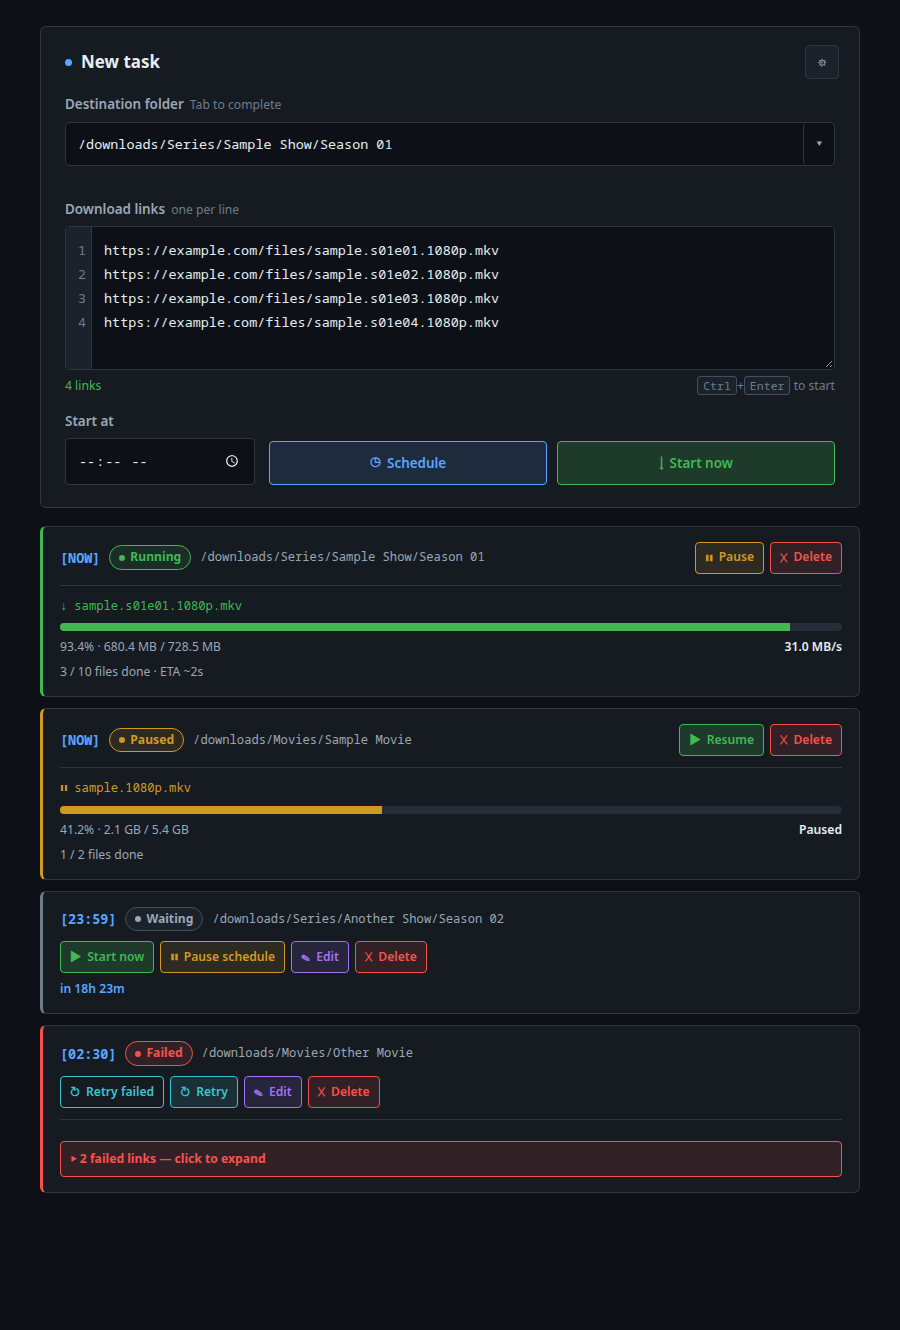
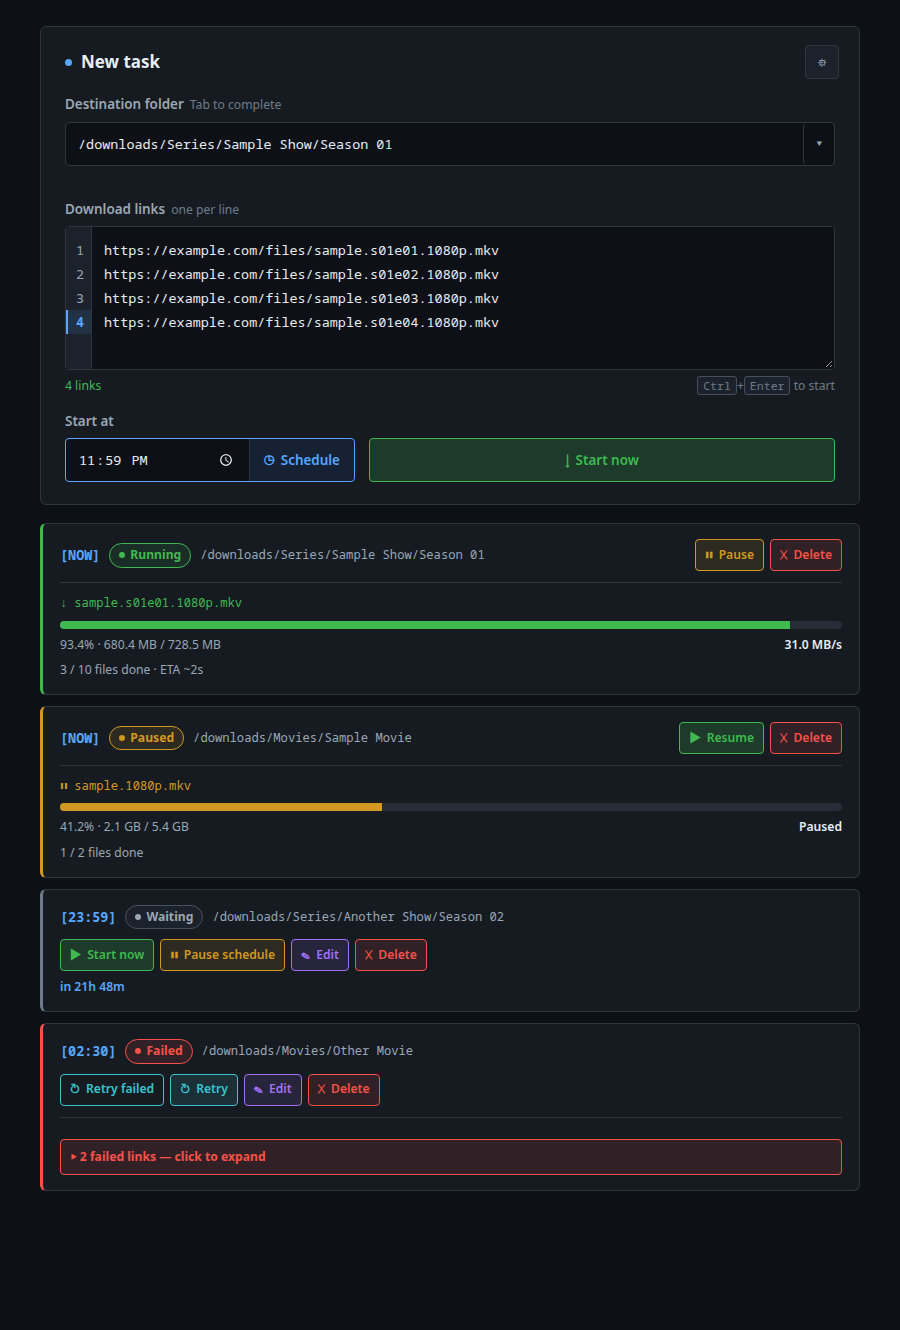
Redesign URL number rail and connect Start at with Schedule
- Rework the link editor gutter into a proper line-number rail: legible
  tabular numbers, active-line highlight, invalid-link markers, and
  efficient class-only updates with dynamic narrow width.
- Attach the Schedule button to the Start at field as one bordered control
  with a bright blue outline matching Start now's green, including a violet
  Save changes variant in edit mode; keep responsive stacking and alignment.
- Regenerate preview.png with generic sample data.

diff --git a/aria2-webui.py b/aria2-webui.py
@@ -800,19 +800,31 @@ HTML_TEMPLATE = r"""
         textarea { resize:vertical; min-height:124px; line-height:1.65; }
         input[type="time"] { font-family:var(--font-mono); }
 
-        /* Numbered link editor: gutter + roomy one-line-per-URL rows */
+        /* Numbered link editor: a real line-number rail beside one-line-per-URL rows */
         .editor {
             display:flex; border:1px solid var(--border);
             border-radius:var(--radius-sm); background:var(--bg); overflow:hidden;
         }
         .editor:focus-within { border-color:var(--accent); }
         .editor-gutter {
-            flex:0 0 26px; padding:11px 5px; background:var(--surface-2);
-            border-right:1px solid var(--border); color:var(--faint);
+            flex:0 0 26px; padding:11px 0; background:var(--surface-2);
+            border-right:1px solid var(--border); color:var(--muted);
             font-family:var(--font-mono); font-size:var(--sm);
-            line-height:24px; text-align:right; overflow:hidden; user-select:none;
+            font-variant-numeric:tabular-nums; line-height:24px;
+            overflow:hidden; user-select:none;
         }
-        .editor-gutter span { display:block; }
+        .editor-gutter .gutter-row {
+            position:relative; display:flex; align-items:center; justify-content:flex-start;
+            height:24px; padding:0 8px 0 8px; border-left:2px solid transparent;
+        }
+        .editor-gutter .mark {
+            position:absolute; left:2px; top:50%; transform:translateY(-50%);
+            width:4px; height:4px; border-radius:50%;
+        }
+        .editor-gutter .invalid .mark { background:var(--danger); }
+        .editor-gutter .invalid .num { color:var(--danger); }
+        .editor-gutter .active { background:var(--accent-tint); border-left-color:var(--accent); }
+        .editor-gutter .active .num { color:var(--accent); font-weight:700; }
         #urls {
             flex:1; min-width:0; border:0; border-radius:0; padding:11px 12px;
             background:var(--bg); line-height:24px;
@@ -886,12 +898,40 @@ HTML_TEMPLATE = r"""
         }
 
         .schedule-row {
-            display:grid; grid-template-columns:minmax(150px,190px) 1fr;
+            display:grid; grid-template-columns:minmax(230px,290px) 1fr;
             gap:14px; align-items:end; margin-top:4px;
         }
         .schedule-row .field { margin-bottom:0; }
+        .schedule-row .actions { justify-content:flex-start; }
+        .schedule-row .actions .btn { flex:1; }
+        .schedule-row #btns-edit .btn { flex:0 0 auto; min-width:150px; }
         .actions { display:flex; gap:10px; justify-content:flex-end; }
         .actions .btn { flex:1; min-height:44px; }
+
+        /* Start at + Schedule share one bright border, matching the Start now button */
+        .time-input-group {
+            display:flex; align-items:stretch; position:relative; height:44px;
+            border:1px solid var(--accent); border-radius:var(--radius-sm); background:var(--bg);
+        }
+        .time-input-group.editing { border-color:var(--violet); }
+        .time-input-group input[type="time"] {
+            flex:1; min-width:0; min-height:0; height:100%;
+            border:0; background:transparent;
+            padding:0 12px; font-family:var(--font-mono); font-size:var(--sm); line-height:1;
+        }
+        .time-input-group input[type="time"]:focus,
+        .time-input-group input[type="time"]:focus-visible,
+        .time-action:focus-visible { outline:none; }
+        .time-action {
+            flex:0 0 auto; height:100%; display:inline-flex; align-items:center; justify-content:center; gap:6px;
+            border:0; border-left:1px solid var(--border);
+            background:var(--accent-tint); color:var(--accent);
+            padding:0 14px; font-size:var(--sm); font-weight:600; white-space:nowrap;
+        }
+        .time-action .ico { font-size:1em; line-height:1; }
+        .time-action:hover { background:var(--accent); color:var(--accent-text); }
+        .time-action--save { background:var(--violet-tint); color:var(--violet); }
+        .time-action--save:hover { background:var(--violet); color:#fff; }
 
         .btn {
             display:inline-flex; align-items:center; justify-content:center; gap:6px;
@@ -902,8 +942,6 @@ HTML_TEMPLATE = r"""
         .btn .ico { font-size:1em; line-height:1; }
         .btn--primary { background:var(--accent); color:var(--accent-text); }
         .btn--primary:hover { background:var(--accent-hover); }
-        .btn--accent { background:var(--accent-tint); color:var(--accent); border-color:var(--accent); }
-        .btn--accent:hover { background:var(--accent); color:var(--accent-text); }
         .btn--start { background:var(--success-btn-tint); color:var(--success); border-color:var(--success); }
         .btn--start:hover { background:var(--success-btn); color:#fff; border-color:var(--success-btn); }
         .btn--edit { background:var(--violet-tint); color:var(--violet); border-color:var(--violet); }
@@ -1087,6 +1125,10 @@ HTML_TEMPLATE = r"""
             #settings-btn { top:15px; right:16px; }
             .card-head { padding-right:40px; }
             .schedule-row { grid-template-columns:1fr; gap:12px; }
+            .time-input-group { height:42px; }
+            .time-input-group input[type="time"], .time-action { height:42px; }
+            .schedule-row .actions .btn { flex:1; }
+            .schedule-row #btns-edit .btn { flex:1; }
             .actions .btn { min-height:42px; }
             .job-heading { width:100%; }
             .job-actions { width:100%; flex-wrap:wrap; margin-left:0; }
@@ -1138,15 +1180,17 @@ HTML_TEMPLATE = r"""
     <div class="schedule-row">
         <div class="field">
             <label for="start_time">Start at</label>
-            <input type="time" id="start_time">
+            <div class="time-input-group" id="time-group">
+                <input type="time" id="start_time">
+                <button type="button" class="time-action" id="btn-schedule" onclick="submitTask('schedule')"><span class="ico">◷</span> Schedule</button>
+                <button type="button" class="time-action time-action--save" id="btn-save" hidden onclick="saveEdit()"><span class="ico">✓</span> Save changes</button>
+            </div>
         </div>
         <div class="actions" id="btns-normal">
-            <button type="button" class="btn btn--accent" onclick="submitTask('schedule')"><span class="ico">◷</span> Schedule</button>
             <button type="button" class="btn btn--start" onclick="submitTask('now')"><span class="ico">↓</span> Start now</button>
         </div>
         <div class="actions" id="btns-edit" hidden>
             <button type="button" class="btn btn--ghost" onclick="cancelEdit()">Cancel</button>
-            <button type="button" class="btn btn--primary" onclick="saveEdit()"><span class="ico">✓</span> Save changes</button>
         </div>
     </div>
 </section>
@@ -1245,6 +1289,9 @@ HTML_TEMPLATE = r"""
     const formTitle     = document.getElementById('form-title');
     const btnsNormal    = document.getElementById('btns-normal');
     const btnsEdit      = document.getElementById('btns-edit');
+    const timeGroup     = document.getElementById('time-group');
+    const btnSchedule   = document.getElementById('btn-schedule');
+    const btnSaveLinked = document.getElementById('btn-save');
     const urlsTextarea  = document.getElementById('urls');
     const urlGutter     = document.getElementById('url-gutter');
     const urlCountEl    = document.getElementById('url-count');
@@ -1455,17 +1502,40 @@ HTML_TEMPLATE = r"""
         urlCountEl.innerHTML = html;
     }
 
+    let gutterLineCount = 0;
+
+    function updateActiveLine() {
+        const value = urlsTextarea.value;
+        const line = value.slice(0, urlsTextarea.selectionStart).split('\n').length;
+        const rows = urlGutter.children;
+        for (let i = 0; i < rows.length; i++)
+            rows[i].classList.toggle('active', value !== '' && i + 1 === line);
+    }
+
     function updateGutter() {
-        const count = Math.max(1, urlsTextarea.value.split('\n').length);
-        let html = '';
-        for (let i = 1; i <= count; i++) html += '<span>' + i + '</span>';
-        urlGutter.innerHTML = html;
-        urlGutter.style.flexBasis = Math.max(26, String(count).length * 9 + 10) + 'px';
+        const lines = urlsTextarea.value.split('\n');
+        const count = Math.max(1, lines.length);
+        if (count !== gutterLineCount) {
+            let html = '';
+            for (let i = 1; i <= count; i++)
+                html += '<span class="gutter-row"><span class="mark"></span><span class="num">' + i + '</span></span>';
+            urlGutter.innerHTML = html;
+            urlGutter.style.flexBasis = Math.max(26, String(count).length * 8 + 18) + 'px';
+            gutterLineCount = count;
+        }
+        const rows = urlGutter.children;
+        for (let i = 0; i < rows.length; i++) {
+            const raw = (lines[i] || '').trim();
+            rows[i].classList.toggle('invalid', raw !== '' && !isValidUrl(raw));
+        }
+        updateActiveLine();
         urlGutter.scrollTop = urlsTextarea.scrollTop;
     }
 
     urlsTextarea.addEventListener('input', () => { updateGutter(); updateUrlCount(); });
     urlsTextarea.addEventListener('scroll', () => { urlGutter.scrollTop = urlsTextarea.scrollTop; });
+    ['click', 'keyup', 'select', 'focus'].forEach(evt =>
+        urlsTextarea.addEventListener(evt, updateActiveLine));
     urlsTextarea.addEventListener('paste', () => setTimeout(() => {
         // Browsers scroll long lines to reveal the caret after a paste —
         // snap back so the start of the links stays visible next to the
@@ -1493,6 +1563,9 @@ HTML_TEMPLATE = r"""
         formTitle.textContent = 'Editing task';
         btnsNormal.hidden = true;
         btnsEdit.hidden = false;
+        btnSchedule.hidden = true;
+        btnSaveLinked.hidden = false;
+        timeGroup.classList.add('editing');
         window.scrollTo({top: 0, behavior: 'smooth'});
         checkPath(job.folder);
         updateGutter();
@@ -1507,6 +1580,9 @@ HTML_TEMPLATE = r"""
         formTitle.textContent = 'New task';
         btnsNormal.hidden = false;
         btnsEdit.hidden = true;
+        btnSchedule.hidden = false;
+        btnSaveLinked.hidden = true;
+        timeGroup.classList.remove('editing');
         refreshJobs();
     }
 
@@ -1516,6 +1592,7 @@ HTML_TEMPLATE = r"""
         document.getElementById('start_time').value = '';
         suggBox.innerHTML = '';
         pathStatus.classList.remove('show');
+        gutterLineCount = 0;
         urlGutter.innerHTML = '';
         urlCountEl.innerHTML = '';
     }
